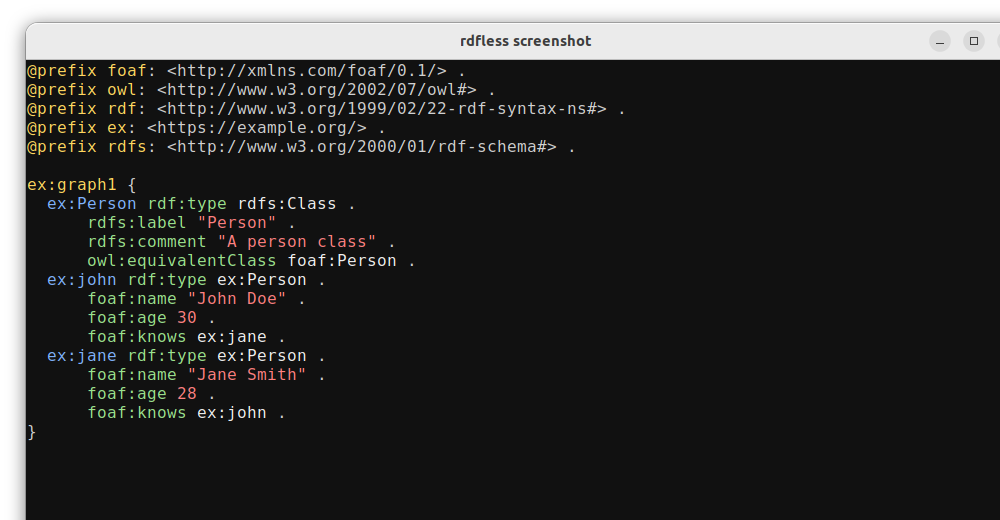
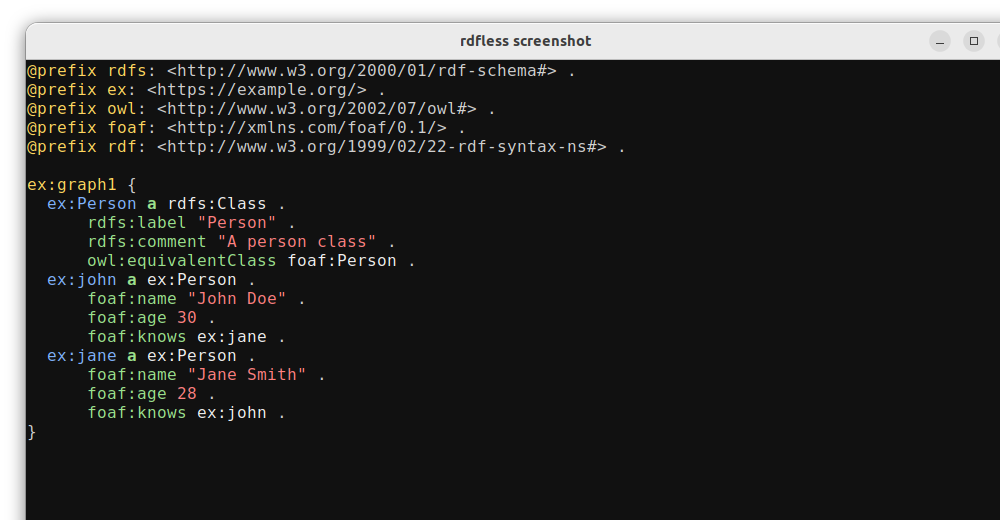
Update changelog and PROV-N screenshots

diff --git a/scripts/update_screenshots.py b/scripts/update_screenshots.py
@@ -4,11 +4,14 @@
 Generate README screenshots by running rdfless in a VTE terminal and capturing the window.
 Requires: python3-gi, gir1.2-gtk-3.0, gir1.2-vte-2.91
 
-This script orchestrates four images:
+This script orchestrates the README screenshot images:
 - assets/sample-ttl-compact.png
 - assets/sample-ttl-expanded.png
 - assets/sample-trig-compact.png
 - assets/sample-trig-expanded.png
+- assets/sample-nt.png
+- assets/sample-nq.png
+- assets/sample-provn.png
 """
 
 import os
@@ -32,6 +35,7 @@ IMAGES = [
     # N-Triples and N-Quads don't have compact/expanded variants; one shot each
     (ASSETS / "sample-nt.png", f"{BIN} --no-pager --no-auto-theme {SAMPLES / 'sample.nt'}"),
     (ASSETS / "sample-nq.png", f"{BIN} --no-pager --no-auto-theme {SAMPLES / 'sample.nq'}"),
+    (ASSETS / "sample-provn.png", f"{BIN} --no-pager --no-auto-theme {SAMPLES / 'sample.provn'}"),
 ]
 
 # Deterministic terminal look

diff --git a/CHANGELOG.md b/CHANGELOG.md
@@ -8,91 +8,181 @@ and this project adheres to [Semantic Versioning](https://semver.org/spec/v2.0.0
 ## [Unreleased]
 
 ### Added
-- SLSA Build Level 3 provenance generation for all release artifacts
-- SHA256 checksums for all release artifacts included in GitHub releases
+- _None_
+
+### Fixed
+- _None_
+
+## [0.4.1] - 2026-01-22
+
+### Added
 - PROV-N (Provenance Notation) format support with parser and sample file
 - Auto-detection of PROV-N format from `.provn` file extension
 - PROV-N format option in CLI (`--format provn`)
-- Comprehensive test suite for PROV-N parsing
+- PROV-N parsing tests and documentation updates
 
 ### Fixed
-- Updated SLSA generator from v2.0.0 to v2.1.0 to fix failing provenance generation in GitHub Actions workflow
-- Fixed SLSA subjects format to use base64-encoded sha256sum output instead of JSON structure
-- Display `@base` directives in output (previously parsed but not shown)
-- Display `rdf:type` predicate as bold `a` shortcut instead of expanded/compact form
+- Improve PROV-N attribute parsing and constants after review
 
-## [0.2.22] - 2025-08-09
+## [0.3.21] - 2025-11-13
+
+### Fixed
+- Display `@base` directives in output (previously parsed but not shown)
+- Render `rdf:type` as the bold `a` shortcut in formatted output
+
+## [0.3.19] - 2025-11-13
+
+### Fixed
+- Relative IRI prefix parsing for Turtle/TriG
+
+### Added
+- Regression tests for relative IRI prefix parsing
+
+## [0.3.12] - 2025-09-21
+
+### Fixed
+- Update SLSA generator to v2.1.0 to resolve provenance generation failures
+- Correct SLSA subjects format for v2.1.0 compatibility
+
+## [0.3.8] - 2025-09-16
+
+### Added
+- SLSA Build Level 3 provenance generation for release artifacts
+
+## [0.3.5] - 2025-08-29
+
+### Changed
+- Linux release binaries are now fully statically linked with musl
+
+## [0.3.4] - 2025-08-29
+
+### Added
+- Auto-sync Dockerfile version label with the project version
+
+### Changed
+- Refreshed README screenshots
 
 ## [0.3.0] - 2025-08-09
 
 ### Added
 - RDF 1.2 annotation syntax support in tests (named reifier `~` with `{| ... |}` blocks) for Turtle and TriG.
-
-### Changed
-- Publish workflow now respects annotated release tags (vX.Y.Z); if a tag is present on the CI commit and matches Cargo.toml, it publishes that exact version without bumping.
-- Bumped crate version to 0.3.0.
-
-### Notes
-- Quoted triple usage emits `rdf:reifies` mapping (RDF 1.2 semantics). TriG tests confirm graph propagation for annotation triples.
-
-### Changed
-- Upgrade to oxttl 0.2.0-beta.2 and oxrdf 0.3.0-beta.2 with `rdf-12` feature to enable RDF 1.2.
-- Switch from deprecated `Subject` to `NamedOrBlankNode` in internal conversion.
-- Remove `.with_quoted_triples()` calls (RDF 1.2 is feature-gated now).
-
-### Added
 - Support for RDF 1.2 VERSION/@version directives in Turtle/TriG.
 - Support for RDF 1.2 quoted triples with reification mapping via `rdf:reifies`.
 - Tests for VERSION/@version and parenthesized triple terms `<<( ... )>>`.
 
+### Changed
+- Publish workflow now respects annotated release tags (vX.Y.Z); if a tag is present on the CI commit and matches Cargo.toml, it publishes that exact version without bumping.
+- Bumped crate version to 0.3.0.
+- Upgrade to oxttl 0.2.0-beta.2 and oxrdf 0.3.0-beta.2 with `rdf-12` feature to enable RDF 1.2.
+- Switch from deprecated `Subject` to `NamedOrBlankNode` in internal conversion.
+- Remove `.with_quoted_triples()` calls (RDF 1.2 is feature-gated now).
+
 ### Notes
+- Quoted triple usage emits `rdf:reifies` mapping (RDF 1.2 semantics). TriG tests confirm graph propagation for annotation triples.
 - RDF-star behavior now follows RDF 1.2: using `<< s p o >>` in subject/object positions emits an intermediate reifier node and an `rdf:reifies` triple; tests updated accordingly.
+
+## [0.2.21] - 2025-08-08
+
+### Changed
+- Publish workflow builds .deb packages for Ubuntu 24.04 and 22.04
+
+## [0.2.19] - 2025-08-05
+
+### Fixed
+- Ensure output uses `@prefix` instead of `PREFIX`
+
+### Changed
+- Enhanced TriG sample data
 
 ## [0.2.14] - 2025-06-30
 
 ### Added
 - Migration from deprecated rio_api/rio_turtle to oxttl/oxrdf for improved RDF parsing
 - RDF-star (embedded triples) support via `rdf-star` feature in oxttl/oxrdf
-- Enhanced prefix parsing functionality with custom extraction algorithms
-- Support for both Turtle (`@prefix`) and SPARQL (`PREFIX`) syntax
-- Comprehensive prefix integration into Turtle and TriG parsers
-- Extended data model for RDF-star with support for embedded triples in subject and object positions
-- New triple/quad conversion functions with recursive embedded triple handling
+- Prefix parsing for Turtle (`@prefix`) and SPARQL (`PREFIX`) syntax
+- Support for `@base` declarations
+- Recursive embedded triple handling in triple/quad conversion
 - Updated formatter and filter logic for RDF-star syntax (`<< ... >>`)
-- **RESTORED**: Prefix parsing functionality now implemented directly in the utility
-- Support for both Turtle (@prefix) and SPARQL (PREFIX) syntax
-- Support for @base declarations
-- Comprehensive test suite for prefix extraction functionality
-- **NEW**: RDF-star (embedded triples) support enabled for Turtle and TriG formats
-- Support for embedded triples in both subject and object positions
 
 ### Changed
-- **BREAKING**: Replaced rio_api/rio_turtle with oxttl/oxrdf dependencies  
-- Updated all parser modules (turtle.rs, trig.rs, ntriples.rs, nquads.rs, robust.rs) to use oxttl/oxrdf APIs
-- Enhanced OwnedTriple structure to support embedded triples with new SubjectType/ObjectType enums
-- Improved triple_to_owned and quad_to_owned functions for recursive embedded triple handling
-- Updated formatter output to properly display RDF-star syntax
-- Enhanced filter functionality to work with new triple/object types
-- **BREAKING**: Migrated from deprecated `rio_api` and `rio_turtle` packages to `oxttl` 0.1.8 and `oxrdf` 0.2.4
-- Updated all RDF parsing functionality to use the new oxttl APIs
-- Parser APIs now use iterator-based approach instead of callback-based approach
-- Error handling updated to work with oxttl error types
-- Initial migration from rio_api/rio_turtle to oxttl/oxrdf (prefix support was missing)
+- Parser modules updated to use oxttl/oxrdf APIs
+- OwnedTriple structure updated to support embedded triples
+- Parser APIs switched to iterator-based parsing and updated error types
 
 ### Testing
-- Added comprehensive test suite for prefix extraction and integration (tests/prefix_test.rs, tests/prefix_integration_test.rs)
-- Added RDF-star test coverage (tests/rdf_star_test.rs)
-- Updated all existing test files to support new OwnedTriple structure
-- Verified compatibility with legacy and new RDF features
+- Added prefix integration tests and RDF-star test coverage
 
-### Technical Notes
-- RDF-star syntax: Uses `<< subject predicate object >>` format (not `<<( ... )>>`)
-- Prefix extraction supports mixed Turtle and SPARQL syntax in same document
-- All clippy warnings resolved and code properly formatted
-- VERSION/@version directives from RDF 1.2 not yet supported by oxttl/oxrdf (tests skipped upstream)
-- All parsers (Turtle, N-Triples, N-Quads, TriG) now use oxttl parsers
-- Updated robust parsing functionality to work with new parser APIs
-- Test suite updated and all tests passing
-- Code formatting and linting issues resolved
+### Notes
+- RDF-star syntax uses `<< subject predicate object >>` format
+- VERSION/@version directives from RDF 1.2 were not yet supported upstream at this time
 
-## [0.2.13] - Previous release
+## [0.2.13] - 2025-06-30
+
+### Added
+- `--keybindings` output and PAGER_KEYBINDINGS.md documentation
+- Keybindings section in the man page
+
+## [0.2.12] - 2025-06-30
+
+### Fixed
+- Restore missing CLI options for N-Triples and N-Quads
+
+## [0.2.11] - 2025-06-29
+
+### Added
+- One-line install script for Linux
+- `--completion` option for generating shell completion scripts
+
+## [0.2.10] - 2025-06-29
+
+### Added
+- Dockerfile and helper Just tasks
+- Initial screenshot automation script for README assets
+
+## [0.2.9] - 2025-06-28
+
+### Added
+- Filtering by subject, predicate, or object with documentation updates
+
+## [0.2.7] - 2025-06-27
+
+### Added
+- `--output` option to write formatted output to a file
+- Man pages for rdfless and the configuration file
+
+## [0.1.11] - 2025-06-27
+
+### Added
+- Multiple themes and pager support
+- Automatic dark/light theme selection based on terminal background
+
+## [0.1.5] - 2025-06-09
+
+### Fixed
+- Output formatting for integers, booleans, and related literals
+
+### Changed
+- Migrate from rio* crates to sophia* crates
+
+## [0.1.3] - 2025-06-08
+
+### Added
+- 24-bit color support via #RRGGBB syntax
+
+## [0.1.2] - 2025-06-08
+
+### Fixed
+- Default config file creation
+
+## [0.1.1] - 2025-06-08
+
+### Fixed
+- TriG output formatting regression
+
+### Added
+- README screenshots
+
+## [0.1.0] - 2025-06-08
+
+### Added
+- Initial public release

diff --git a/README.md b/README.md
@@ -348,6 +348,10 @@ Compact Mode | Expanded Mode
 
 ![N-Quads](assets/sample-nq.png)
 
+### PROV-N (PROVN)
+
+![PROV-N](assets/sample-provn.png)
+
 For how to regenerate these screenshots, see the Contributors guide.
 
 ## License
